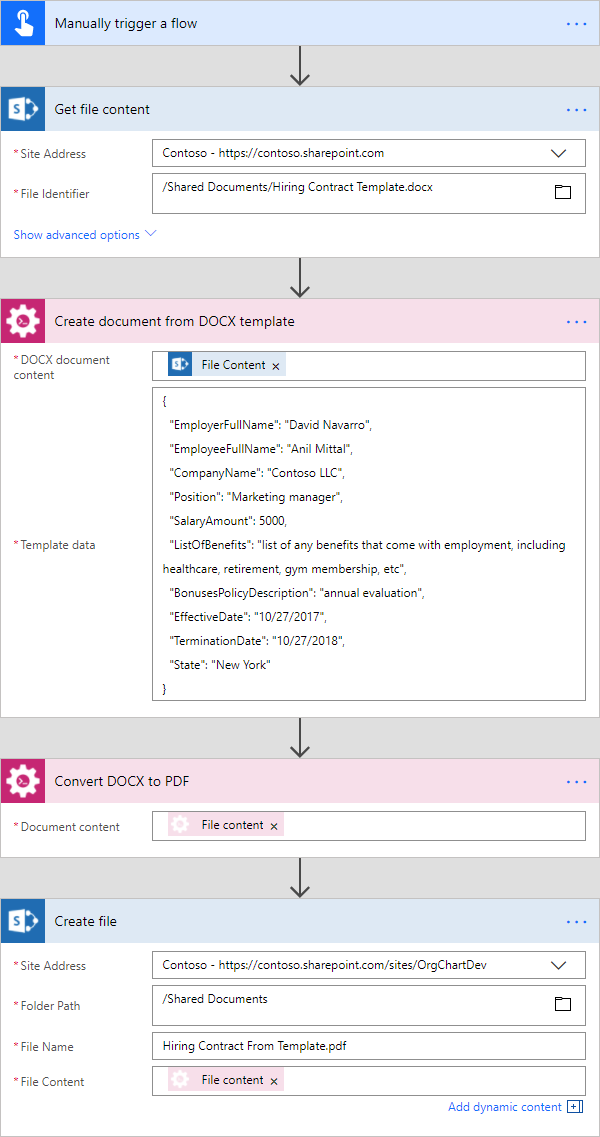
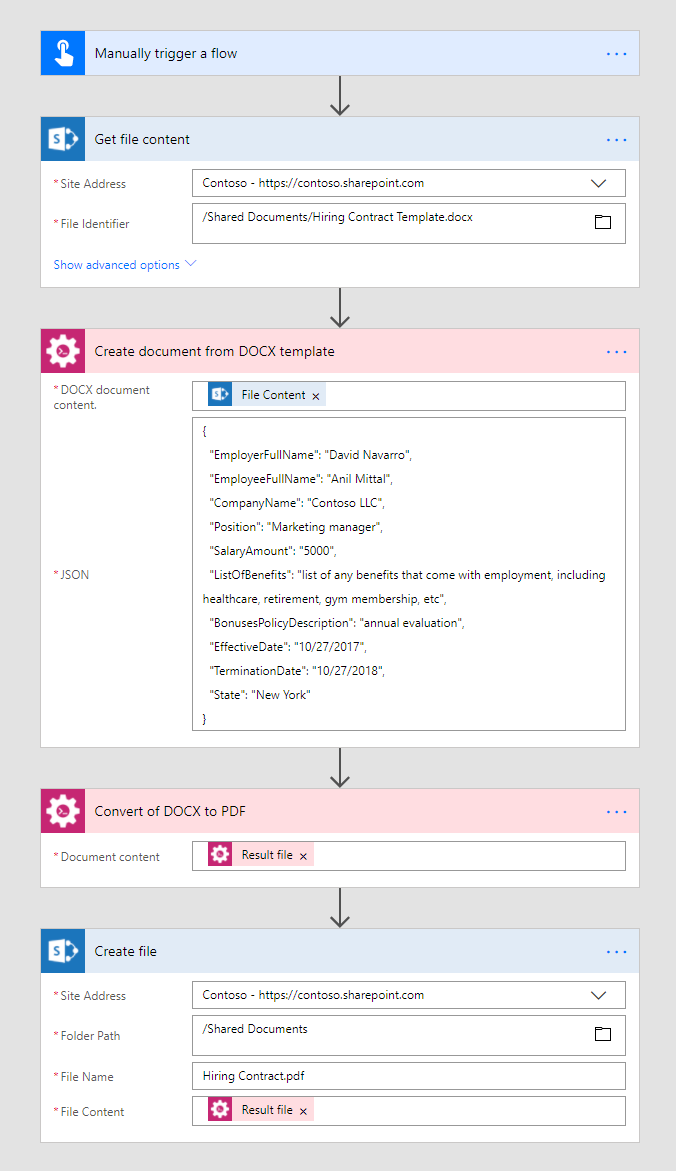
PDF from DOCX template article and some fixes in other articles.

diff --git a/source/flow/how-tos/create-pdf-from-docx-template.rst b/source/flow/how-tos/create-pdf-from-docx-template.rst
@@ -1,11 +1,16 @@
 Create PDF from DOCX template
 ==================================
 
-This article demonstrates how to generate DOCX Word document from a DOCX template with the help of `Microsoft Flow <https://flow.microsoft.com>`_. 
+This article demonstrates how to generate PDF document from a DOCX template with the help of `Microsoft Flow <https://flow.microsoft.com>`_. 
 
 Before starting, ensure that you `added Plumsail Documents connector to Microsoft Flow <../../getting-started/use-from-flow.html>`_.
 
-We will generate a hiring contract from a template. Our template and result document has to be stored somewhere. Microsoft Flow has a lot of connectors for different systems. Here are just a few of them:
+We will firstly generate DOCX document from a template. Then we will convert it to PDF. In this article we will generate PDF invoice based on some data. This is how our final PDF file looks:
+
+.. image:: ../../_static/img/flow/how-tos/docx-sample-doc.png
+   :alt: PDF sample document
+
+Our template and result document have to be stored somewhere. Microsoft Flow has a lot of connectors for different systems. Here are just a few of them:
 
 - SharePoint
 - Salesforce
@@ -18,12 +23,12 @@ We will generate a hiring contract from a template. Our template and result docu
 
 You can store your source file anywhere. In this example, we will store our documents in SharePoint. Our Flow will get a template from a SharePoint document library, generate a new document based on this template and on some data. The result document will be stored back to SharePoint document library.
 
-Firstly, we have to prepare the template file. Pleas follow `this instruction to prepare your template <../../advanced/create-docx-template.html>`_.
+Firstly, we have to prepare the template file. Please follow `this instruction to prepare your template <../../advanced/create-docx-template.html>`_.
 
-Now we need to create a Microsoft Flow that will get the template from the SharePoint document library, apply data to this template and save result document back to the document library. This is how complete flow looks:
+Now we need to create a Microsoft Flow that will get the template from the SharePoint document library, apply data to this template, convert document to PDF and save it back to the document library. This is how complete flow looks:
 
-.. image:: ../../_static/img/flow/how-tos/flow-create-docx-from-template.png
-   :alt: Select fields
+.. image:: ../../_static/img/flow/how-tos/flow-create-pdf-from-docx-template.png
+   :alt: Flow create PDF from DOCX template
 
 Here is the step by step description for the flow.
 
@@ -69,13 +74,21 @@ This is our sample data:
 
 You can find more information about this action `here <../actions/document-processing.html#create-document-from-docx-template>`_.
 
+**Convert DOCX to PDF**
+
+This is alson an action from Plumasail Documents connector.
+
+Just put DOCX file content from the output of the previous action and receive PDF file content as an output of this action.
+
+You can find more information about this action `here <../actions/document-processing.html#convert-docx-document-to-pdf>`_.
+
 **Create file**
 
 Once the result document is generated, we need to store the Word file somewhere. In our example, we use "Create file" action from SharePoint connector to store the document into SharePoint document library.
 
-.. image:: ../../_static/img/flow/how-tos/generated-docx-from-template-sp-library.png
+.. image:: ../../_static/img/flow/how-tos/generated-pdf-from-docx-template-sp-library.png
    :alt: Select fields
 
 You can use any other connector to store the Word document into your system.
 
-.. hint:: There is also `Convert DOCX document to PDF <../actions/document-processing.html#convert-docx-to-pdf>`_ action available. You can use it in conjunction with `Create document from DOCX template <../actions/document-processing.html#create-document-from-docx-template>`_ action to `create PDF documents from a template <create-pdf-from-docx-template.html>`_.
+.. hint:: There is also `Convert HTML document to PDF <../actions/document-processing.html#create-html-from-template>`_ action available. You can use it in conjunction with `Convert HTML to PDF <../actions/document-processing.html#convert-html-to-pdf>`_ action to `create PDF documents from an HTML template <create-pdf-from-html-template.html>`_.

diff --git a/source/flow/how-tos/create-docx-from-template.rst b/source/flow/how-tos/create-docx-from-template.rst
@@ -18,7 +18,7 @@ We will generate a hiring contract from a template. Our template and result docu
 
 You can store your source file anywhere. In this example, we will store our documents in SharePoint. Our Flow will get a template from a SharePoint document library, generate a new document based on this template and on some data. The result document will be stored back to SharePoint document library.
 
-Firstly, we have to prepare the template file. Pleas follow `this instruction to prepare your template <../../advanced/create-docx-template.html>`_.
+Firstly, we have to prepare the template file. Please follow `this instruction to prepare your template <../../advanced/create-docx-template.html>`_.
 
 Now we need to create a Microsoft Flow that will get the template from the SharePoint document library, apply data to this template and save result document back to the document library. This is how complete flow looks:
 

diff --git a/source/getting-started/sign-up.rst b/source/getting-started/sign-up.rst
@@ -8,7 +8,7 @@ First of all you need to `register Plumsail Account <https://auth.plumsail.com/a
 
 It is better to use your active email address. Subsription will be linked to this address.
 
-If you already have account, just `sign in <https://auth.plumsail.com/account/login?returnUrl=https://account.plumsail.com/actions/intro>`_.
+If you already have account, just sign in to `account.plumsail.com <https://auth.plumsail.com/account/login?returnUrl=https://account.plumsail.com/actions/intro>`_.
 
 Generate API key
 ----------------

diff --git a/source/flow/how-tos/create-pdf-from-html-template.rst b/source/flow/how-tos/create-pdf-from-html-template.rst
@@ -123,7 +123,7 @@ In the second parameter we specified data to apply to the template in JSON forma
 
 **Convert HTML to PDF**
 
-This is an action from Plumasail Documents connector, which is a part of `Plumsail Actions <https://plumsail.com/actions>`_.
+This is also an action from Plumasail Documents connector.
 
 Just put HTML file content from the output of the previous action and receive PDF file content as an output of this action. You can also use raw HTML string as a source HTML.
 
